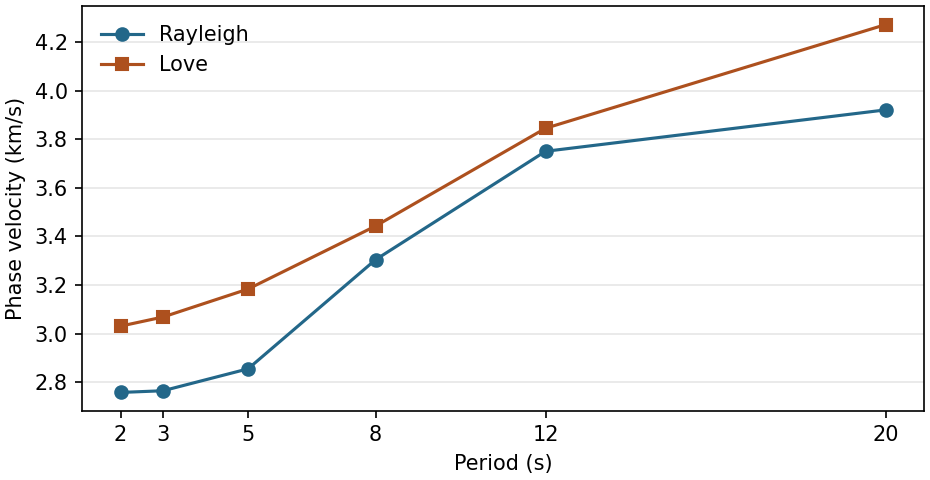
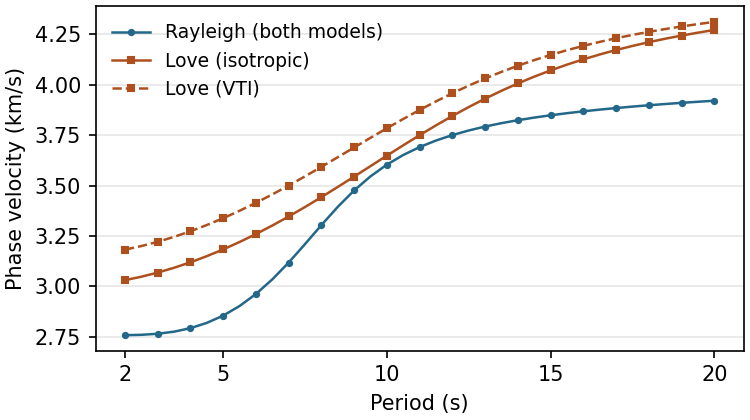
Simplify the README and illustrate VTI dispersion and Rayleigh eigenfunctions to 30 km

Changed region(s): [[0.0, 0.0, 1.0, 0.9905], [0.1533, 0.5881, 0.184, 0.619]]

diff --git a/examples/plot_layered_model.py b/examples/plot_layered_model.py
@@ -8,15 +8,19 @@ import disper26 as d26
 from examples import basic_dispersion
 
 
-def plot_dispersion(curves):
-    fig = Figure(figsize=(6.2, 3.2), constrained_layout=True)
+def plot_dispersion(isotropic, vti):
+    fig = Figure(figsize=(5.0, 2.8), constrained_layout=True)
     ax = fig.subplots()
-    for wave, color, marker in (("Rayleigh", "#236789", "o"), ("Love", "#ad501e", "s")):
-        curve = curves[wave]
-        ax.plot(curve.periods, curve.phase_velocity, marker=marker, color=color, label=wave)
-    ax.set(xlabel="Period (s)", ylabel="Phase velocity (km/s)", xticks=curves["Rayleigh"].periods)
+    for curve, style, color, label in (
+        (isotropic["Rayleigh"], "o-", "#236789", "Rayleigh (both models)"),
+        (isotropic["Love"], "s-", "#ad501e", "Love (isotropic)"),
+        (vti["Love"], "s--", "#ad501e", "Love (VTI)"),
+    ):
+        ax.plot(curve.periods, curve.phase_velocity, style, color=color, label=label,
+                linewidth=1.2, markersize=2.5, markevery=2)
+    ax.set(xlabel="Period (s)", ylabel="Phase velocity (km/s)", xticks=[2, 5, 10, 15, 20])
     ax.grid(axis="y", color="0.9")
-    ax.legend(frameon=False)
+    ax.legend(frameon=False, fontsize=9)
     return fig
 
 
@@ -27,9 +31,11 @@ def plot_eigenfunctions(solution):
     fig = Figure(figsize=(5.0, 3.8), constrained_layout=True)
     ax = fig.subplots()
     ax.axvline(0, color="0.75", linewidth=1)
+    ax.axhline(solution.model.thicknesses[0], color="0.45", linewidth=0.8, linestyle=":")
     ax.plot((ur / uz[0]).real, profile.depth, color="#236789", label=r"Horizontal $u_r$")
     ax.plot((uz / uz[0]).real, profile.depth, "--", color="#ad501e", label=r"Vertical $u_z$")
-    ax.set(xlabel=r"Reduced displacement / $u_z(0)$", ylabel="Depth (km)",
+    ax.set(title=f"Fundamental Rayleigh mode, {solution.period:g} s",
+           xlabel=r"Reduced displacement / $u_z(0)$", ylabel="Depth (km)",
            ylim=(profile.depth[-1], 0))
     ax.grid(axis="y", color="0.9")
     ax.legend(frameon=False)
@@ -42,9 +48,14 @@ def main():
     output_dir = parser.parse_args().output_dir
     output_dir.mkdir(parents=True, exist_ok=True)
 
-    curves = basic_dispersion.run()
-    plot_dispersion(curves).savefig(output_dir / "dispersion.png", dpi=150)
-    solution = next(s for s in curves["Rayleigh"].solutions if s.period == 5.0)
+    isotropic = basic_dispersion.run()
+    vti = basic_dispersion.run(vti=True)
+    plot_dispersion(isotropic, vti).savefig(output_dir / "dispersion.png", dpi=150)
+
+    # Repeat the half-space material to sample its eigenfunctions from 10 to 30 km.
+    model = d26.create_model([0., 10., 30.], kind="layer_cake", vs=[3., 4.5, 4.5],
+                             vp=[5.2, 8., 8.], rho=[2.5, 3.3, 3.3])
+    solution = d26.compute_dispersion(model, period=8., wave="Rayleigh", mode=0)
     plot_eigenfunctions(solution).savefig(output_dir / "rayleigh_eigenfunctions.png", dpi=150)
 
 

diff --git a/examples/basic_dispersion.py b/examples/basic_dispersion.py
@@ -1,15 +1,20 @@
-"""Compute Rayleigh and Love dispersion for a layer over a halfspace."""
+"""Compare Rayleigh and Love dispersion for isotropic and VTI layers."""
+import numpy as np
+
 import disper26 as d26
 
 
-def run():
+def run(*, vti=False):
     # Depths: km; velocities: km/s; densities: g/cm^3.
-    # The last point starts the halfspace.
-    model = d26.create_model(
-        [0.0, 10.0], kind="layer_cake",
-        vs=[3.0, 4.5], vp=[5.2, 8.0], rho=[2.5, 3.3],
-    )
-    periods = [2.0, 3.0, 5.0, 8.0, 12.0, 20.0]
+    # Only the upper layer's Vsh differs between the models.
+    vs = [3.0, 4.5]
+    vp = [5.2, 8.0]
+    if vti:
+        velocities = dict(vsh=[3.15, 4.5], vsv=vs, vph=vp, vpv=vp, eta=[1., 1.])
+    else:
+        velocities = dict(vs=vs, vp=vp)
+    model = d26.create_model([0., 10.], kind="layer_cake", rho=[2.5, 3.3], **velocities)
+    periods = np.arange(2., 20.5, 0.5)
     curves = {
         wave: d26.compute_dispersion_curve(model, periods=periods, wave=wave, mode=0)
         for wave in ("Rayleigh", "Love")
@@ -18,14 +23,17 @@ def run():
 
 
 def main():
-    curves = run()
-    print("Period (s)  Rayleigh c (km/s)  Love c (km/s)")
-    for period, rayleigh, love in zip(
-        curves["Rayleigh"].periods,
-        curves["Rayleigh"].phase_velocity,
-        curves["Love"].phase_velocity,
+    isotropic = run()
+    vti = run(vti=True)
+    print("Phase velocity (km/s)")
+    print("Period (s)  Rayleigh (iso)  Rayleigh (VTI)  Love (iso)  Love (VTI)")
+    for period, rayleigh_iso, rayleigh_vti, love_iso, love_vti in zip(
+        isotropic["Rayleigh"].periods,
+        isotropic["Rayleigh"].phase_velocity, vti["Rayleigh"].phase_velocity,
+        isotropic["Love"].phase_velocity, vti["Love"].phase_velocity,
     ):
-        print(f"{period:10.2f}  {rayleigh:17.9f}  {love:13.9f}")
+        print(f"{period:10.1f}  {rayleigh_iso:14.6f}  {rayleigh_vti:14.6f}"
+              f"  {love_iso:10.6f}  {love_vti:10.6f}")
 
 
 if __name__ == "__main__":

diff --git a/tests/python/test_examples.py b/tests/python/test_examples.py
@@ -14,6 +14,16 @@ def test_layered_dispersion_has_physical_fundamental_velocities():
         if wave == "Love":
             assert np.all(curve.phase_velocity > 3.0)  # Layer shear velocity.
 
+    vti = basic_dispersion.run(vti=True)
+    for wave, curve in vti.items():
+        np.testing.assert_array_equal(curve.periods, np.linspace(2., 20., 37))
+        np.testing.assert_array_equal(curve.periods, curves[wave].periods)
+        assert all(s.diagnostics.mode_verified for s in curve.solutions)
+    # Only Vsh changes. The Rayleigh roots agree to the solver's root tolerance.
+    np.testing.assert_allclose(vti["Rayleigh"].phase_velocity, curves["Rayleigh"].phase_velocity,
+                               rtol=0, atol=curves["Rayleigh"].solutions[0].options.root_tolerance)
+    assert np.all(vti["Love"].phase_velocity > curves["Love"].phase_velocity)
+
 
 def test_tracking_example_checks_endpoints_and_keeps_input_order():
     curve = tracking_options.run()

diff --git a/README.md b/README.md
@@ -1,46 +1,16 @@
 # Disper26
 
 Disper26 computes Rayleigh and Love surface-wave dispersion in isotropic and
-vertically transversely isotropic layered media. It provides C++, C, Fortran
-and Python interfaces, automatic-differentiation kernels and phase-velocity
-Hessians, and Romberg refinement for gradient models.
+vertically transversely isotropic (VTI) layered media. Its C++, C, Fortran
+and Python interfaces provide eigenfunctions, sensitivity kernels and
+phase-velocity Hessians.
 
-## Release status
+**Version 0.1.104** is a local publication candidate.
 
-The current software version is **0.1.104**, a local publication candidate.
-The original Disper26 software is licensed under GPL-2.0-or-later. Verified
-PREM provenance, its CC BY 4.0 terms, and dependency notices are recorded in
-[NOTICE](NOTICE); see [License and attribution](#license-and-attribution).
-No public release has been issued.
+## Quick start
 
-At manuscript submission, this software repository will become public with its
-development history preserved. A versioned GitHub release will be archived
-with Zenodo. The research comparison repository is maintained separately.
-
-## Build and use
-
-For a Git clone, initialize the pinned autodiff dependency with
-`git submodule update --init`. Source archives use the dependency selection
-described in [installation](docs/install.md). Requirements are C++17,
-CMake 3.18+, Eigen 3.4.x and, for Python, NumPy and pybind11 2.10+.
-On macOS the build requires GNU GCC/libstdc++ and Homebrew `eigen@3`.
-The `disper26py` distribution installs both Python APIs. For model building,
-dispersion, sensitivity kernels and Hessians, use the high-level API
-(`import disper26 as d26`). This includes interface derivatives with internal
-Earth flattening on a spherical stiffness GRID. Import the low-level API
-(`import disper26py as d26_lowlevel`) when you need to supply roots for
-individual refinement levels or compare numerical methods directly.
-Use Python 3.8+ in a dedicated environment; do not install into Conda base.
-The commands below use the Python interpreter from that environment. See
-[installation](docs/install.md) for environment setup and native dependencies.
-
-```sh
-python -m pip install .
-# Optional inverse modelling with SciPy:
-python -m pip install '.[inversion]'
-# Optional numerical and plotting dependencies for paper reproduction:
-python -m pip install '.[paper]'
-```
+After [installing Disper26](docs/install.md), compute the fundamental Rayleigh
+phase velocity for a 10 km layer over a half-space.
 
 ```python
 import disper26 as d26
@@ -49,60 +19,26 @@ import disper26 as d26
 model = d26.create_model([0., 10.], kind="layer_cake",
                          vs=[3., 4.5], vp=[5.2, 8.], rho=[2.5, 3.3])
 solution = d26.compute_dispersion(model, period=5.)
-print(solution.phase_velocity)  # km/s
+print(f"{solution.phase_velocity:.3f} km/s")  # 2.856 km/s
 ```
 
-![Fundamental Rayleigh and Love phase velocities increase with period in this model.](docs/figures/examples/dispersion.png)
-
-The markers show the six periods computed by the [dispersion example](examples/basic_dispersion.py)
-for the same 10 km layer over a half-space. At 5 s the Rayleigh phase velocity
-is 2.856 km/s, matching the calculation above.
-
-The [practice examples](examples/README.md) cover layered dispersion, mode
-tracking, Rayleigh eigenfunctions, gradient-model convergence and predictions
-using kernels and Hessians. All inputs are included.
-See also [installation](docs/install.md), [shared API](docs/public_api.md),
-[low-level API](docs/lowlevel_api.md), and [historical paper reproduction](paper/README.md).
-Documented low-level deprecated aliases remain callable. Method-specific
-limitations and convergence diagnostics are part of the API contract.
-
-Japanese editions of the [API guide](docs_jp/public_api.md) and
-[practice examples](example_jp/README.md) are also available.
+Explore [VTI and isotropic dispersion curves and Rayleigh eigenfunctions to 30 km](examples/README.md#1-model-construction-and-dispersion-curves)
+in the practice examples ([Japanese edition](example_jp/README.md)).
+For model parameters, units and solver options, see the [API guide](docs/public_api.md)
+([Japanese edition](docs_jp/public_api.md)) or the [low-level API reference](docs/lowlevel_api.md).
 
 ## Verification
 
-Run these commands from the repository root in your dedicated environment.
-To run the four practice examples as tests, install the test extra:
+From the repository root in your dedicated environment, run the practice examples as tests.
 
 ```sh
 python -m pip install '.[test]'
 python -m pytest -q tests/python/test_examples.py
 ```
 
-For development and the full Python suite, install the build dependencies
-in the active environment before building the extension in place. The
-`paper` extra supplies SciPy and Matplotlib.
-
-```sh
-python -m pip install 'setuptools>=64' wheel 'cmake>=3.18' 'pybind11>=2.10'
-python -m pip install '.[test,paper]'
-python setup.py build_ext --inplace
-python -m pytest -q tests/python
-```
-
-The native suite below includes the Fortran interface and requires a Fortran
-compiler such as gfortran.
-
-```sh
-cmake -S . -B build-native -DCMAKE_BUILD_TYPE=Release \
-  -DDISPER26_BUILD_FORTRAN=ON -DDISPER26_BUILD_PYTHON=OFF
-cmake --build build-native --parallel 2
-(cd build-native && ctest --output-on-failure)
-```
-
-The public tests cover Disper26 and use bundled, self-contained inputs.
-External-program comparisons and their reference output are maintained
-separately. The tracking fixture contains model nodes only.
+The [installation guide](docs/install.md) covers the full Python and native test
+suites. The [paper guide](paper/README.md) describes historical figure reproduction.
+The public tests use bundled inputs. External-program comparisons are maintained separately.
 
 The author used generative AI tools to help derive equations, design
 verification procedures, debug the research code, and review the software
@@ -110,6 +46,9 @@ documentation. The author checked the derivations and numerical results and
 takes responsibility for the software.
 
 ## Citation
+
+At manuscript submission, this repository will become public with its history
+preserved, and a versioned GitHub release will be archived with Zenodo.
 
 If you use Disper26, please cite the software version you used. Machine-readable
 citation metadata are provided in [CITATION.cff](CITATION.cff). Until the first

diff --git a/example_jp/README.md b/example_jp/README.md
@@ -24,38 +24,43 @@ python -m pip install '.[test]'
 python -m examples.basic_dispersion
 ```
 
-[basic_dispersion.py](../examples/basic_dispersion.py) は、一つの層と半無限層からなる等方モデルで
-Rayleigh波・Love波の基本モードの位相速度を計算します。
-深さはkm、速度はkm/s、密度はg/cm³、周期はsです。基本モードは `mode=0` です。
-最終の深度点から下が半無限層になります。
+[basic_dispersion.py](../examples/basic_dispersion.py) は、Rayleigh波とLove波の基本モード（`mode=0`）の位相速度を、
+周期2〜20秒、0.5秒刻みで計算します。厚さ10 kmの層とその下の等方半無限媒質を用い、上層が等方の場合と
+VTI（鉛直軸を対称軸とする横等方性）の場合を比較します。等方層の $V_S$ は3.00 km/sで、VTI層では
+$V_{SH}$ だけを3.15 km/sに上げます。両モデルとも上層の $V_{SV} = 3.00$ km/s、
+$V_{PH} = V_{PV} = 5.20$ km/s、$\eta = 1$、密度は2.5 g/cm³です。
 
-層厚やVsを変え、短周期と長周期で曲線がどう変わるかを確かめてください。
+![Rayleigh波の曲線は両モデルで重なる。Love波の位相速度はVTIモデルの方が高く、長周期側で差が縮まる。](../docs/figures/examples/dispersion.png)
 
-![周期2〜20秒の6点で計算したRayleigh波とLove波の基本モードの位相速度](../docs/figures/examples/dispersion.png)
+$V_{SH}$ だけを変えるとLove波の位相速度が変化し、Rayleigh波の曲線は重なります。
+周期5秒でLove波の位相速度は3.184 km/sから3.339 km/sに上がり、周期20秒では差が0.040 km/sに縮まります。
+図中のシンボルは1秒間隔です。
 
 `python -m examples.tracking_options` で[追跡の例](../examples/tracking_options.py)を実行できます。
 開始周期、初期速度範囲、両端でのモード番号の確認を指定し、違反時には `on_violation="fallback"` で再探索します。
 既定では最長周期から計算し、入力順に結果を返します。各設定でのモード確認については [共通公開API](../docs_jp/public_api.md) を参照してください。
 
-### 周期5秒のRayleigh波の固有関数
+### 周期8秒のRayleigh波の固有関数
 
-分散曲線上の周期5秒の点で変位が深さとともにどう変わるかを調べます。
-この周期で求めた基本モードの解を `compute_eigenfunctions` に渡します。
+等方モデルの周期8秒の点で、Rayleigh波の変位が半無限媒質内で減衰する様子を調べます。
+深さ30 kmまで変位を出力するため、深さ10〜30 kmの区間と30 km以深の半無限媒質に同じ物性を指定します。
+物性境界は深さ10 kmの一か所です。
 
 ```python
 import disper26 as d26
 
-model = d26.create_model([0., 10.], kind="layer_cake",
-                         vs=[3., 4.5], vp=[5.2, 8.], rho=[2.5, 3.3])
-solution = d26.compute_dispersion(model, period=5., wave="Rayleigh", mode=0)
+model = d26.create_model([0., 10., 30.], kind="layer_cake", vs=[3., 4.5, 4.5],
+                         vp=[5.2, 8., 8.], rho=[2.5, 3.3, 3.3])
+solution = d26.compute_dispersion(model, period=8., wave="Rayleigh", mode=0)
 profile = d26.compute_eigenfunctions(solution, num_sub_layers=40)
 ur, uz = profile.components["ur"], profile.components["uz"]
 ```
 
-![地表から深さ10 kmの間で、Rayleigh波の水平成分は符号が変わり、鉛直成分は正に保たれる](../docs/figures/examples/rayleigh_eigenfunctions.png)
+![周期8秒の水平変位は深さ約3.8 kmで符号が変わり、鉛直変位は深さ30 kmで地表の2.7%に減衰する。](../docs/figures/examples/rayleigh_eigenfunctions.png)
 
-地表から半無限層の上端（深さ10 km）までの間で、水平成分 `ur` は一度符号が変わり、鉛直成分 `uz` は正のままです。
-振幅比を保つため、どちらも地表の鉛直成分 `uz[0]` で割って表示しています。
+両成分を地表の鉛直変位 `uz[0]` で規格化し、符号と振幅比を保って表示しています。
+水平成分 `ur` は深さ約3.8 kmで符号が変わります。鉛直成分 `uz` は深さ10 kmの境界（点線）で地表の約36%、
+深さ30 kmで約2.7%まで減衰します。
 水平変位の位相因子 $i$ は `ur` の値には含まれません。[固有関数の符号・位相の規約](../docs/eigen_function.md)
 
 2枚のPNGを再生成するには、練習例に使った環境にMatplotlibを追加し、リポジトリのルートから[作図スクリプト](../examples/plot_layered_model.py)を実行します。

diff --git a/examples/README.md b/examples/README.md
@@ -24,39 +24,46 @@ python -m examples.basic_dispersion
 ```
 
 [basic_dispersion.py](basic_dispersion.py) computes fundamental-mode
-(`mode=0`) Rayleigh and Love phase velocities for an isotropic layer over a
-half-space. The last depth marks the top of the half-space. Depth is in km,
-velocity in km/s, density in g/cm³ and period in s. Change the layer thickness
-or Vs and compare the short- and long-period ends of each curve.
+(`mode=0`) Rayleigh and Love phase velocities at periods from 2 to 20 s in
+0.5 s steps. Both models have a 10 km layer over the same isotropic half-space.
+In the isotropic layer, $V_S = 3.00$ km/s. In the VTI layer, only $V_{SH}$
+increases, to 3.15 km/s. Both layers have $V_{SV} = 3.00$ km/s,
+$V_{PH} = V_{PV} = 5.20$ km/s, $\eta = 1$ and density 2.5 g/cm³.
 
-![Fundamental Rayleigh and Love phase velocities at six periods between 2 and 20 s.](../docs/figures/examples/dispersion.png)
+![The Rayleigh curves coincide. The VTI Love curve lies above the isotropic Love curve, with a smaller gap at long periods.](../docs/figures/examples/dispersion.png)
+
+Changing only $V_{SH}$ affects Love waves, so one Rayleigh curve represents
+both models. At 5 s the Love phase velocity rises from 3.184 to 3.339 km/s.
+At 20 s the difference is 0.040 km/s. Markers are spaced 1 s apart.
 
 Run `python -m examples.tracking_options` for the [tracking example](tracking_options.py). It sets the starting period, initial velocity interval and endpoint checks, with `on_violation="fallback"`. The default starts at the longest
 period and returns results in input order. The [shared API guide](../docs/public_api.md)
 describes the checks for each setting.
 
-### Rayleigh eigenfunctions at 5 s
+### Rayleigh eigenfunctions at 8 s
 
-To see how displacement varies with depth at the 5 s point on the Rayleigh
-curve, pass the solution for that period to `compute_eigenfunctions`.
+At the 8 s point on the isotropic Rayleigh curve, the displacement extends
+well below the layer. To sample it to 30 km, give the 10–30 km interval and
+the underlying half-space identical properties. The only material boundary
+is at 10 km.
 
 ```python
 import disper26 as d26
 
-model = d26.create_model([0., 10.], kind="layer_cake",
-                         vs=[3., 4.5], vp=[5.2, 8.], rho=[2.5, 3.3])
-solution = d26.compute_dispersion(model, period=5., wave="Rayleigh", mode=0)
+model = d26.create_model([0., 10., 30.], kind="layer_cake", vs=[3., 4.5, 4.5],
+                         vp=[5.2, 8., 8.], rho=[2.5, 3.3, 3.3])
+solution = d26.compute_dispersion(model, period=8., wave="Rayleigh", mode=0)
 profile = d26.compute_eigenfunctions(solution, num_sub_layers=40)
 ur, uz = profile.components["ur"], profile.components["uz"]
 ```
 
-![The horizontal Rayleigh component changes sign within the layer. The vertical component stays positive.](../docs/figures/examples/rayleigh_eigenfunctions.png)
+![At 8 s the horizontal displacement changes sign near 3.8 km. The vertical displacement decays to 2.7% of its surface value at 30 km.](../docs/figures/examples/rayleigh_eigenfunctions.png)
 
-From the surface to the half-space boundary at 10 km, the horizontal component
-changes sign once and the vertical component stays positive. Both curves show
-reduced displacement divided by the surface vertical component (`uz[0]`),
-preserving their relative amplitudes. The horizontal phase factor $i$ is
-implicit in `ur`. See the [eigenfunction conventions](../docs/eigen_function.md).
+Both components are normalized by the surface vertical displacement (`uz[0]`),
+preserving their signs and relative amplitudes. The horizontal component changes
+sign near 3.8 km. The vertical component falls to 36% of its surface value at
+the 10 km boundary (dotted line) and to 2.7% at 30 km. The horizontal phase
+factor $i$ is implicit in `ur`. See the [eigenfunction conventions](../docs/eigen_function.md).
 
 To regenerate both PNGs, install Matplotlib in your example environment and
 run the [plotting script](plot_layered_model.py) from the repository root.

diff --git a/docs/install.md b/docs/install.md
@@ -1,5 +1,8 @@
 # Building Disper26
 
+For a Git clone, run `git submodule update --init` from the repository root to
+initialize the pinned autodiff dependency.
+
 CMake 3.18+, a C++17 compiler, and Eigen 3.4.x are required. Linux builds
 use Eigen 3.4.x from the system package or an explicit `Eigen3_DIR`.
 On macOS, Homebrew `eigen@3` is required, and the
